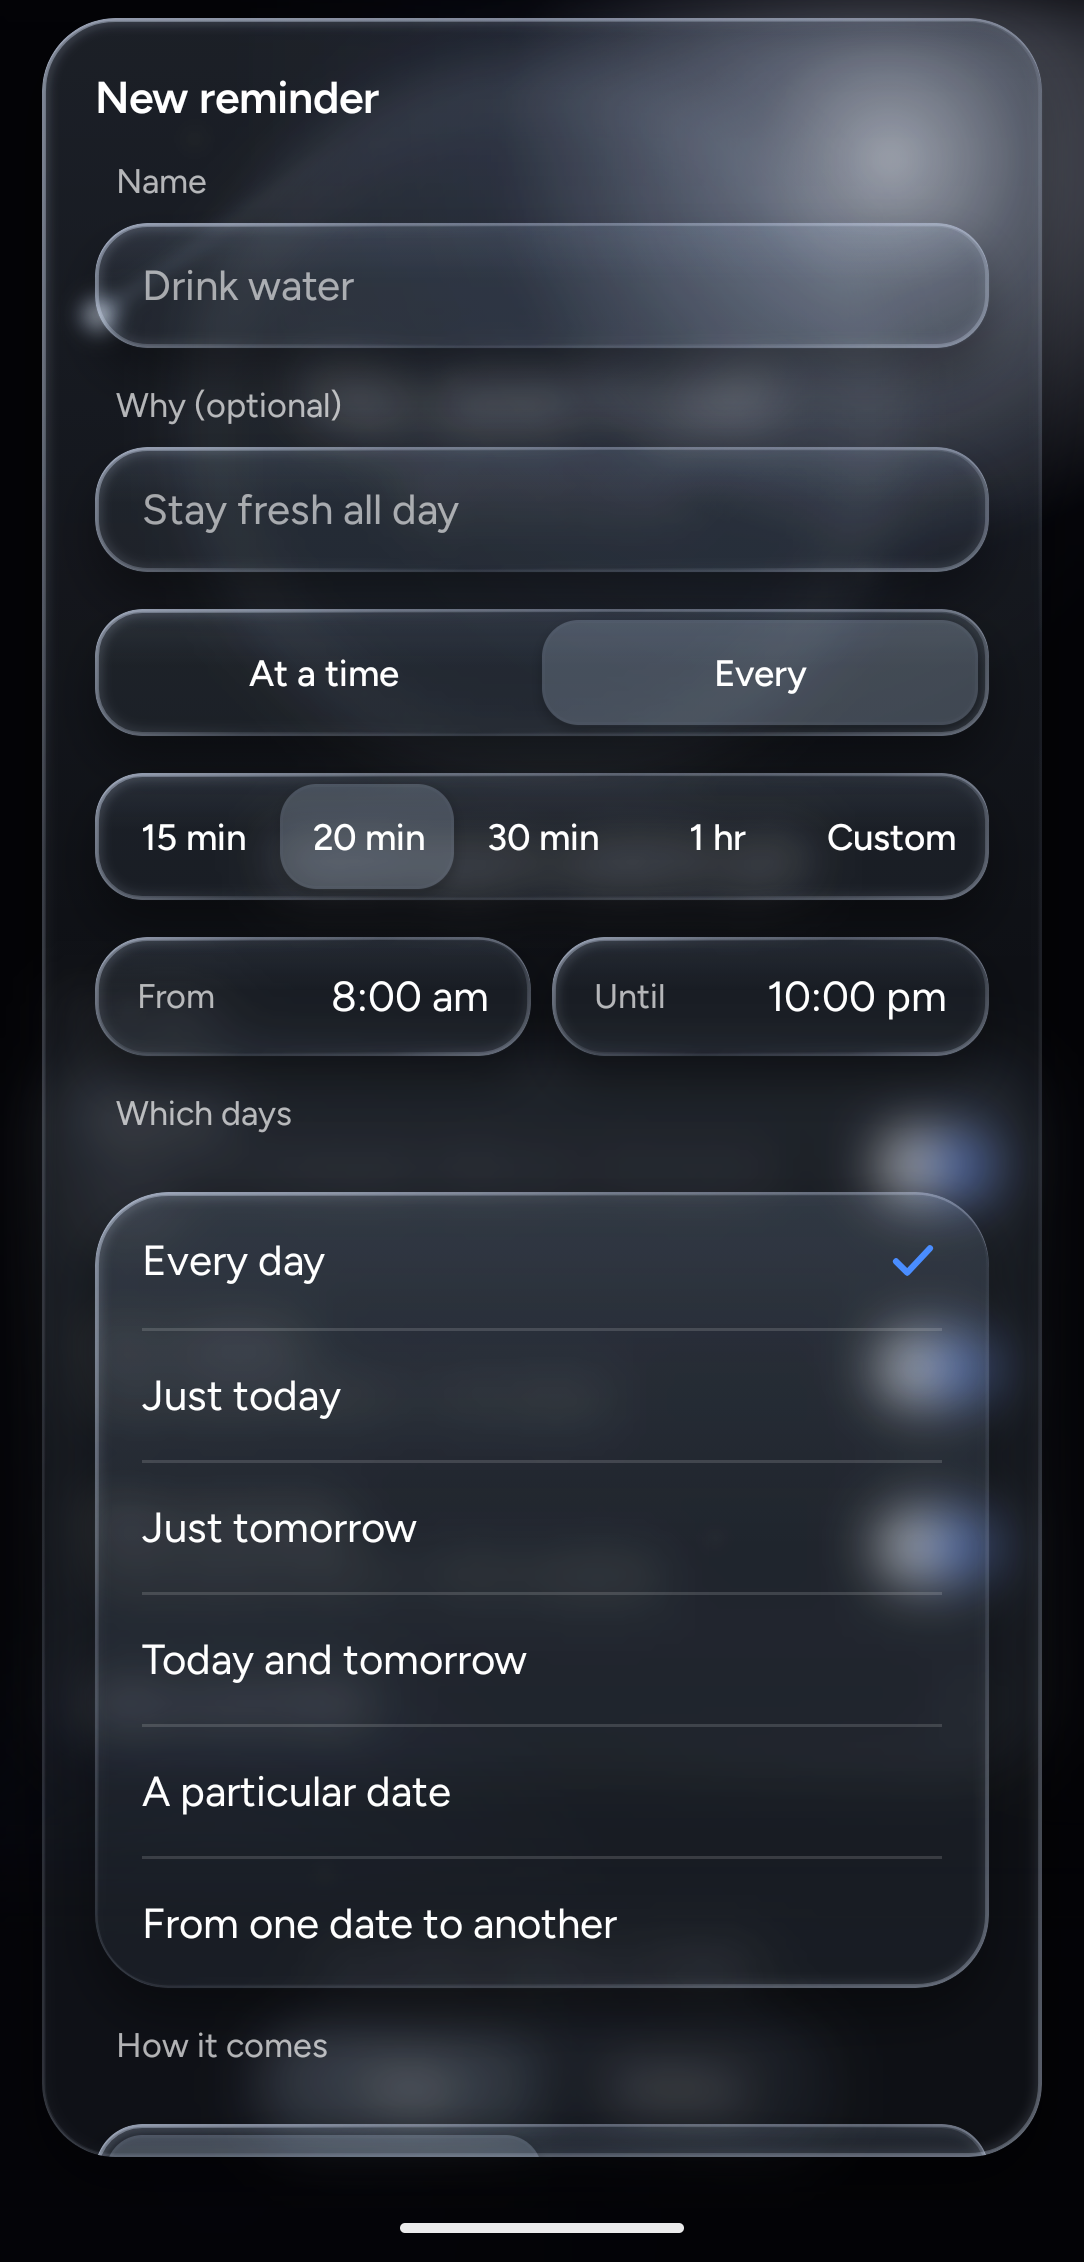
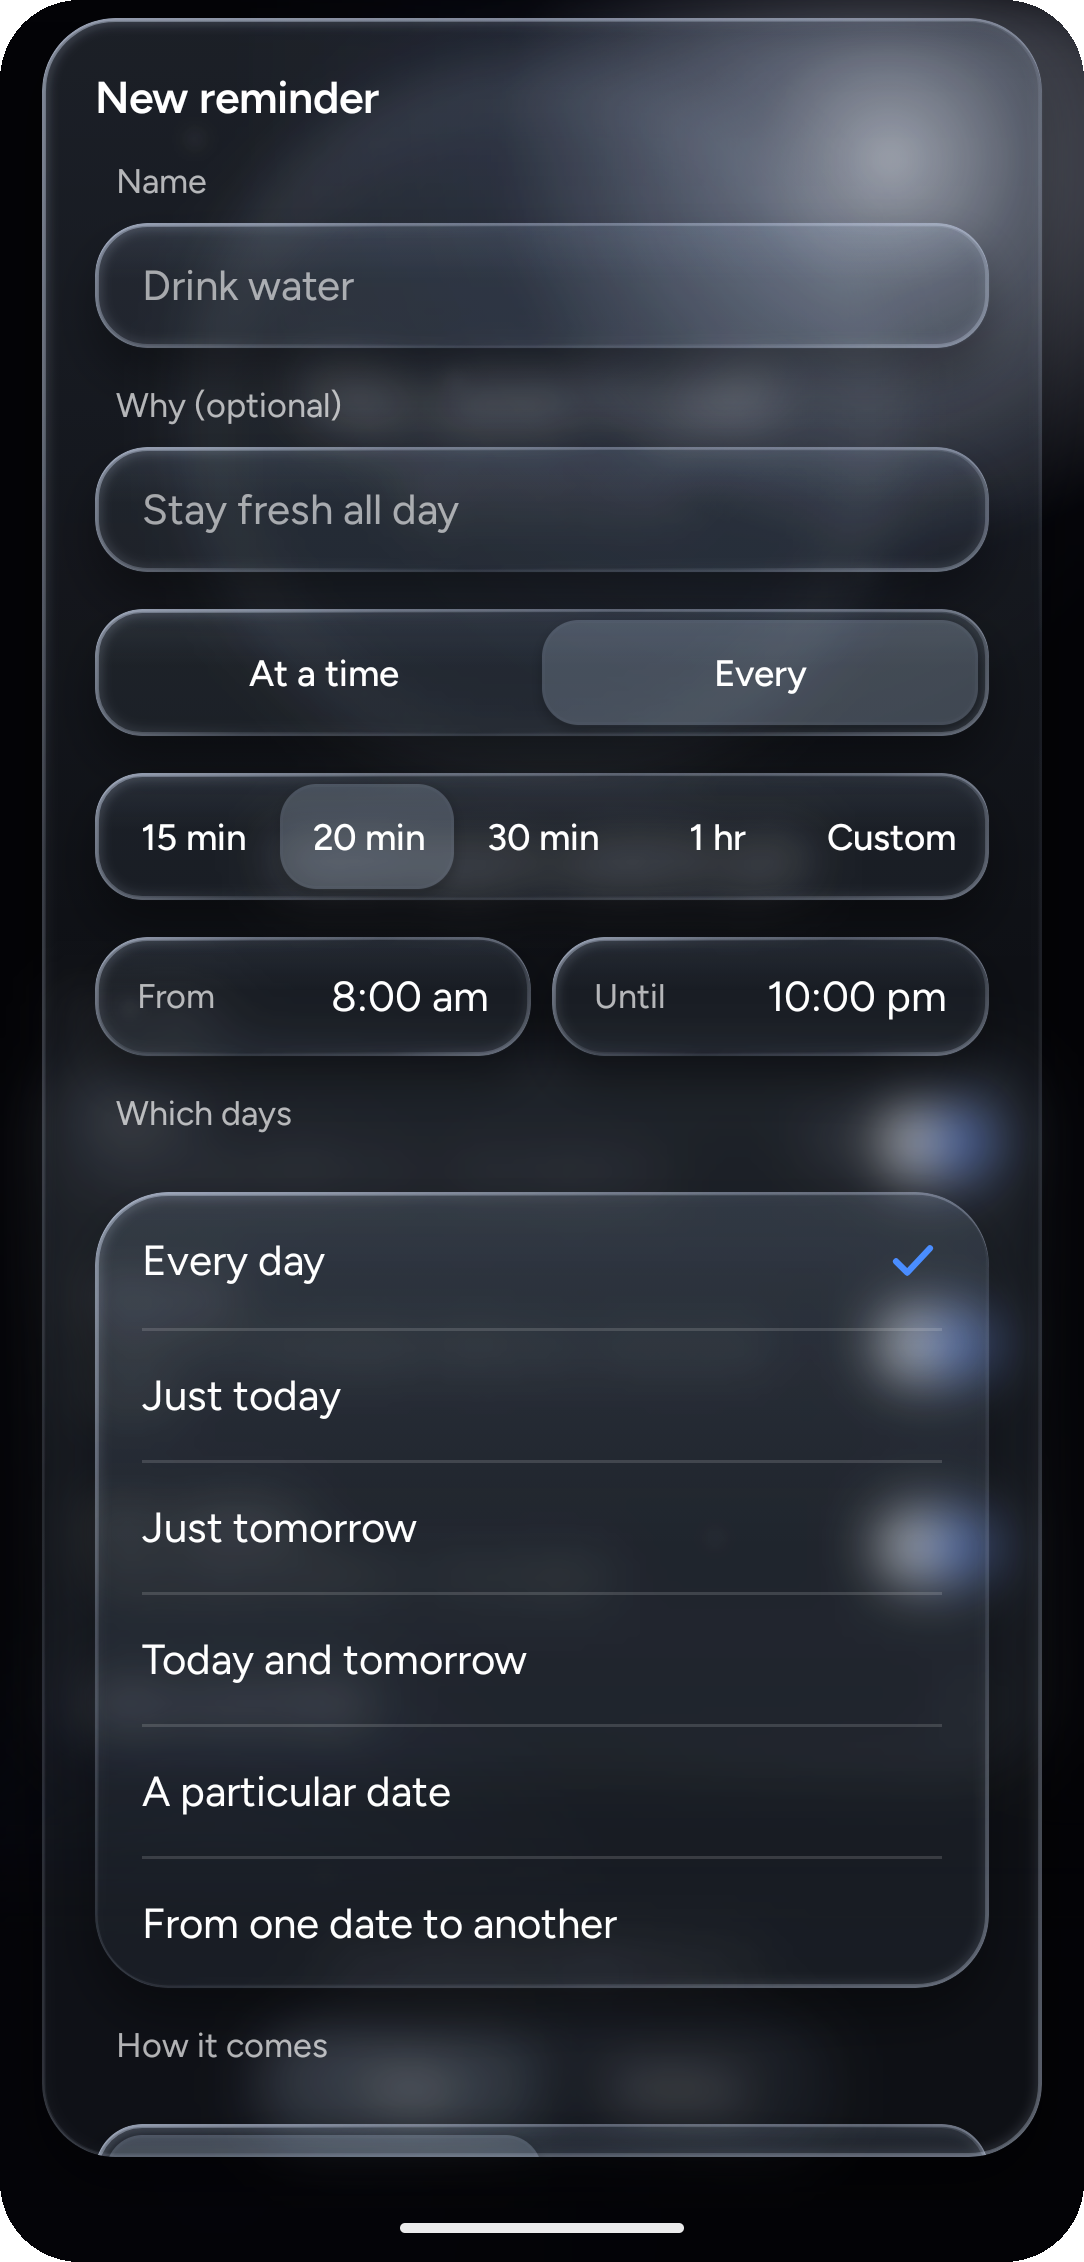
README: 40-second tour GIF and retaken screenshots
The top of the README is a 40-second GIF, 12 fps, 360 px wide, with rounded
corners and the status bar cropped off. It starts with the one switch from
light to dark, then goes through setup, setting an alarm and adding
reminders. The six screenshots (Today, Settings and the reminder editor,
in light and dark) are retaken from the same phone run, lossless at full
resolution with the status bar cropped and rounded corners.

diff --git a/README.md b/README.md
@@ -9,7 +9,7 @@ Kotlin · Jetpack Compose · fully offline · no account · watches only in the 
 It also has **Reminders** ("Drink water, every 20 minutes") and **learns from your mornings**, so it asks sooner or later to suit you.
 
 <p align="center">
-  <img src="docs/demo.gif" width="320" alt="Switching Dawnly from dark to light and back: the new look sweeps in from a corner">
+  <img src="docs/demo.gif" width="320" alt="A 40-second tour of Dawnly: switching from light to dark, setup, setting an alarm and adding reminders">
 </p>
 
 ## Screenshots
